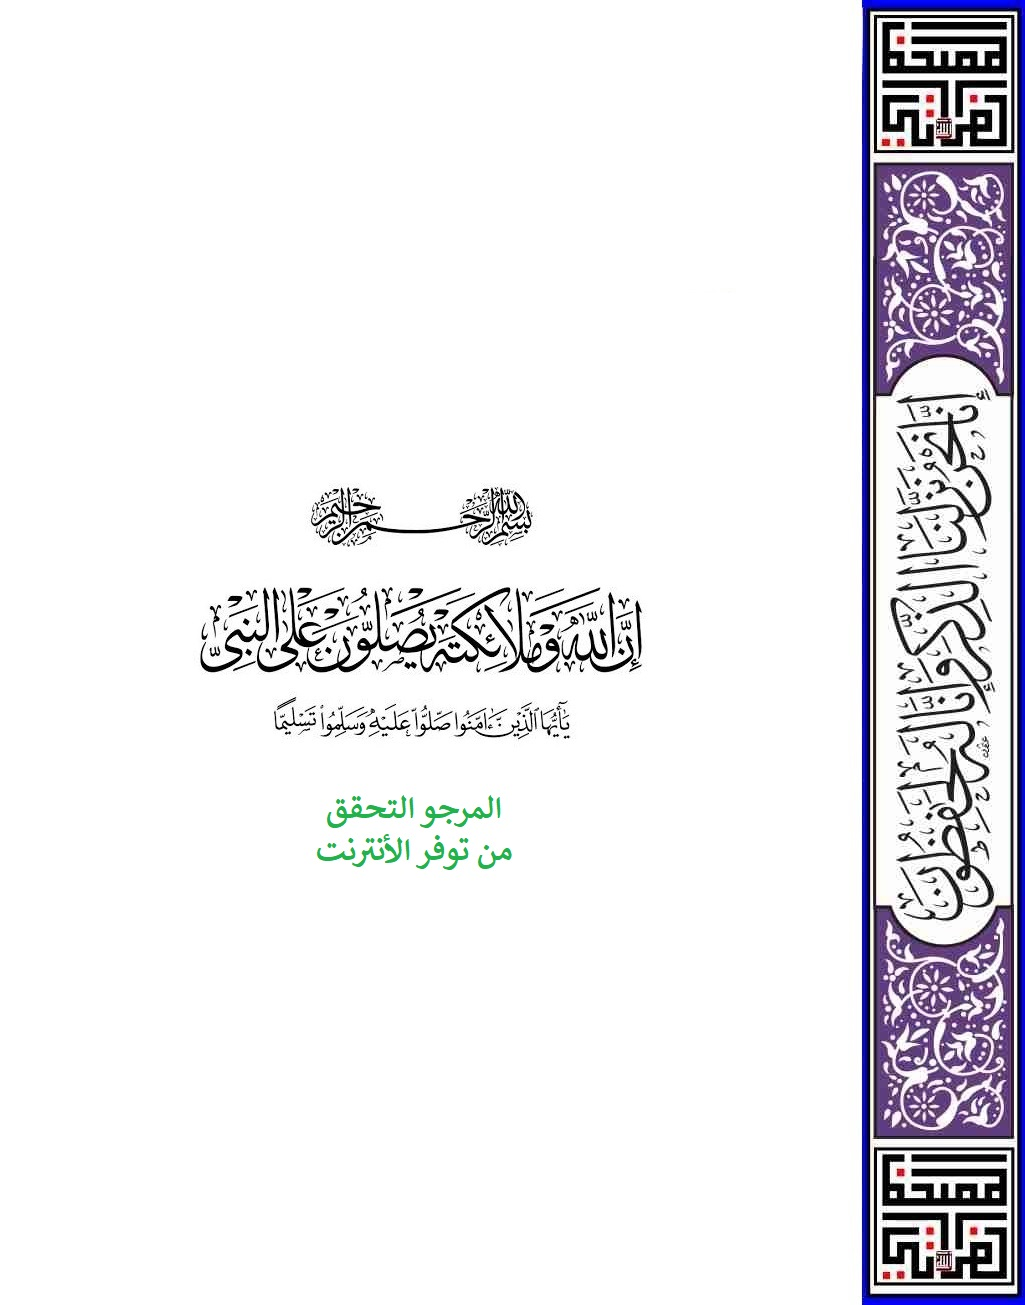
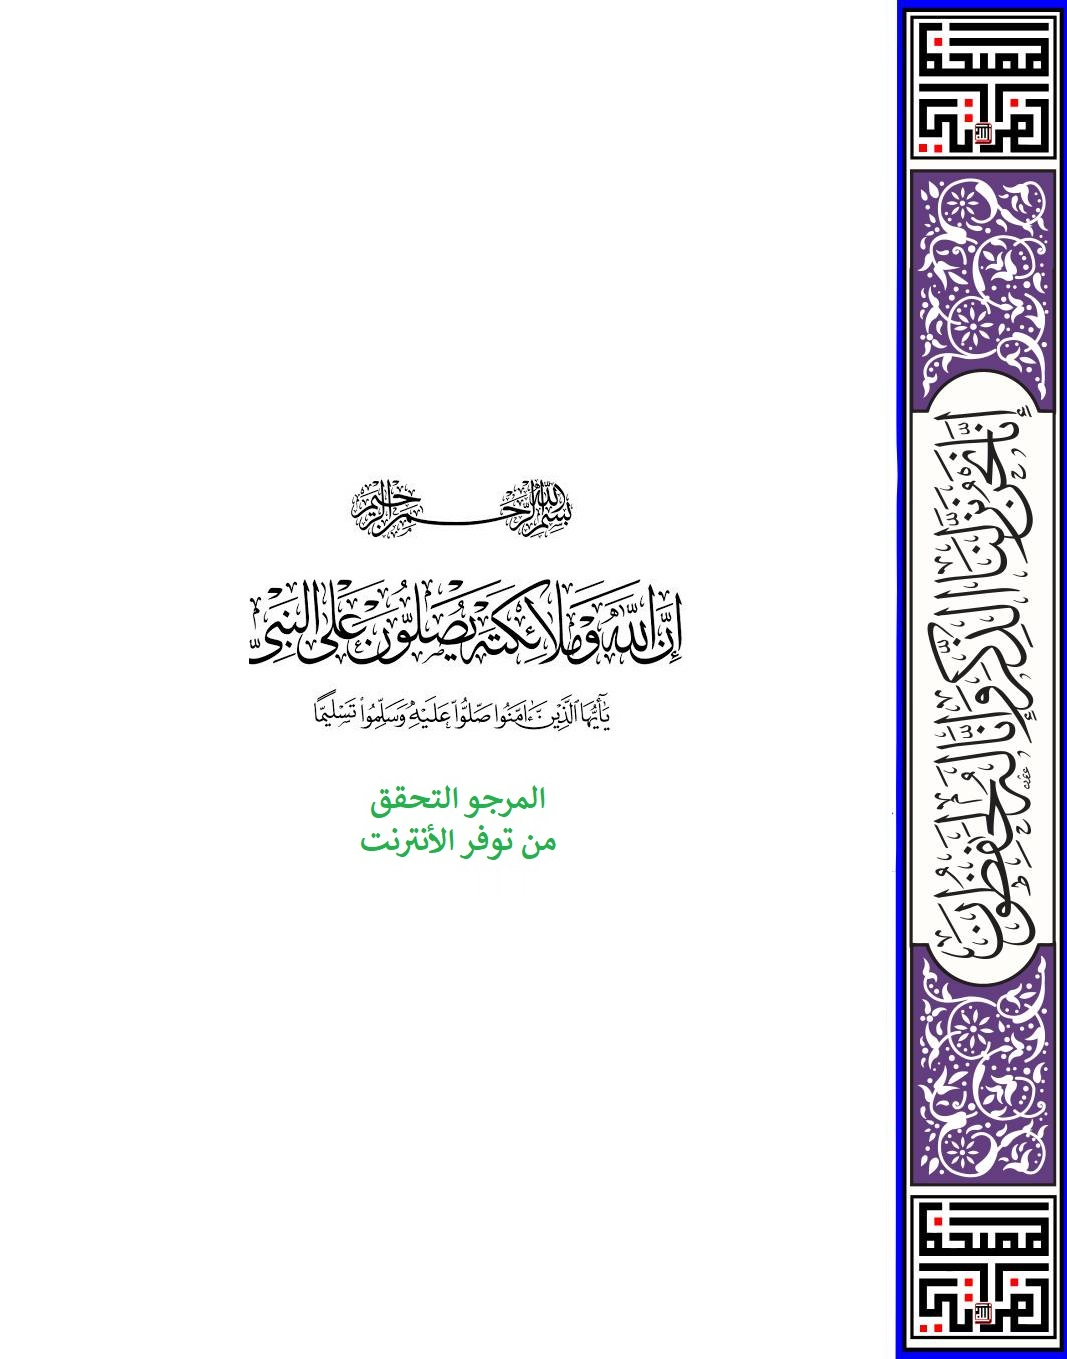
- udpate darkmode for momorezation view - update khatamat to handel rawi - update error connection image to new size

Changed region(s): [[0.8117, 0.0, 1.0, 1.0], [0.1873, 0.3372, 0.6556, 0.6743]]

diff --git a/src/main.js b/src/main.js
@@ -806,6 +806,7 @@ const getPath = (second = false, local = false) => {
 
 
 const goToKhatma = (e) => {
+  updateRaw(e.target.dataset.rawi)
   goToPageCmd(e.target.dataset.value, false)
   let newKhatamat = [...khatamat.map(k => {if (k == khatamat[e.target.dataset.id]) {k.selected = true }else {k.selected = false }; return k})]
   updateKhatamat(newKhatamat)
@@ -831,10 +832,11 @@ const updateKhatamat = (kha) => {
     let k = khatamat[i]
     khatamatList.insertAdjacentHTML(
       "beforeend",
-      `<div class=general-item title="${k.rawiLabel}">
-        <div class="item ${k.selected ? 'checked':''}" data-id="${i}" data-value="${k.page}" data-part="khatma">
+        `<div class="general-item" title="${rawis[k.rawiID].label}" >
+        <div class="item ${k.selected ? 'checked':''}" data-id="${i}" data-value="${k.page}" data-rawi="${k.rawiID}" data-part="khatma">
           <div class="level"></div>
           <div class="title">${k.name}</div>
+          <div >${rawis[k.rawiID].label.split(' ')[0]}</div> |
           <div class="page">صحفة ${k.page}</div>
         </div>
         <button data-id="${i}">
@@ -858,13 +860,19 @@ const addKhatamatCmd = (evt) => {
     return
   }
   // form : [{id: 1, name: "test", page: 50, selected: null}, {id: 1, name: "test", page: 50, selected: true}];
-  khatamat = [...khatamat.map(k => {k.selected = false; return k}), { name: khatmaInput.value, rawiLabel : rawis[selectedRawi].label , page: selectedPage, selected: true}]
+  khatamat = [...khatamat.map(k => {k.selected = false; return k}), { name: khatmaInput.value, rawiID : selectedRawi , page: selectedPage, selected: true}]
   updateKhatamat(khatamat)
   khatmaInput.value = ''
 };
 
 const syncKhatmaCmd = (evt) => {
-  khatamat = [...khatamat.map(k => {if (k.selected) k.page = selectedPage; return k})]
+  khatamat = [...khatamat.map(k => {
+    if (k.selected) {
+      k.page = selectedPage;
+      k.rawiID = selectedRawi
+    }
+    return k
+  })]
   updateKhatamat(khatamat)
 }
 
@@ -1257,8 +1265,9 @@ const goToPageFromSearchCmd = (e) => {
 };
 
 const updateRawCmd = (e) => {
-  const newRawId = e.target.id;
-
+  updateRaw(e.target.id)
+}
+const updateRaw = (newRawId) => {
   // if selected page for the old rawi is sup then the last page for new rawi
   // (that means the new rawi does not have the equivalent number page)
   // then change the page number

diff --git a/src/assets/css/main.css b/src/assets/css/main.css
@@ -1328,6 +1328,10 @@ input::-webkit-inner-spin-button {
   background-color: #fffffb;
 }
 
+.dark-mode .memo>div>div {
+  background-color: #222222;
+}
+
 .line-selected {
   background-color: #86fff561 !important
 }

diff --git a/service-worker.js b/service-worker.js
@@ -1,5 +1,5 @@
 var APP_PREFIX = 'thethenreadings_';
-var VERSION = 'version_12_11_2023';
+var VERSION = 'version_23_04_2024';
 var CACHE_NAME = APP_PREFIX + VERSION
 var URLS = [    
   "/",
